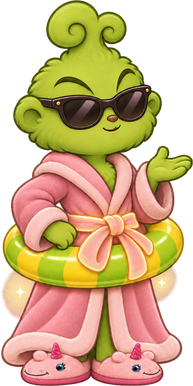
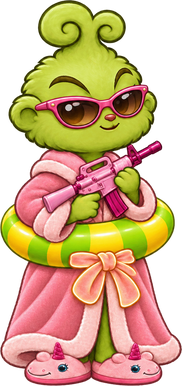
art: пляжные СР3, СР5, СР9 под новых питомцев
Перерисованы Codex image_gen по новым srN-5.png из master (b7982eb):
у Гринча розовая игрушка, у СР5 щит и знак, у СР9 красная шляпа и платье.
Одобрены владельцем 19.11.

diff --git a/CREDITS.md b/CREDITS.md
@@ -11,4 +11,4 @@
 | public/assets/pets/sr3-1.png … sr3-5.png — Гринч (СР3) в розовых тапочках по просьбе отдела: пять стадий нарезаны `tools/slice-pets.py` из нового листа assets/_raw/sr3-rost.png (прежний — sr3-rost-old.png) | правка прежнего листа встроенным `image_gen` по фото заказчика, 17.11.2026 | проект | для этой игры по заказу | — |
 | public/assets/toys/balloon.png, yoyo.png, plane.png, car.png, bubbles.png, drum.png, phone.png, bouncer.png, rocket.png, dumbbell.png — десять новых игрушек от РГ (шарик, йо-йо, самолётик, машинка, мыльные пузыри, барабан, телефон, попрыгунчик, ракета, гантелька); нарезаны по сетке 5 × 2 из листа assets/_raw/toys-2-v2.png, обрезаны по прозрачности, не больше 256 px | встроенный `image_gen` по образцу стиля assets/_raw/toys-ref.png (мост tools/agent-bridge, задание toys-2-20261117-retry), 17.11.2026 | проект | для этой игры по заказу | — |
 | public/assets/furniture/*.png — 25 вещей магазина РГ (столы, компьютеры, телефоны, кресла, угол, коврики, стены, окно); нарезаны `tools/slice-sheet.py` по сетке 3 × 3 из листов assets/_raw/furniture-1..3.png, обрезаны по прозрачности, не больше 256 px | встроенный `image_gen` по образцу стиля assets/_raw/toys-ref.png (мост tools/agent-bridge, задания furniture-1..3-20261118), 18.11.2026 | проект | для этой игры по заказу | — |
-| public/assets/pets/sr1..sr9-beach.png — шесть питомцев групп в отпуске (очки, круг, панамка, полотенце); обрезаны по прозрачности, высота как у srN-5.png | встроенный `image_gen` по одной картинке srN-5.png (мост tools/agent-bridge, задания beach-srN-20261118), 18.11.2026 | проект | для этой игры по заказу | — |
+| public/assets/pets/sr1..sr9-beach.png — шесть питомцев групп в отпуске (очки, круг, панамка, полотенце); обрезаны по прозрачности, высота как у srN-5.png | встроенный `image_gen` по одной картинке srN-5.png (мост tools/agent-bridge, задания beach-srN-20261118), 18.11.2026; sr3, sr5, sr9 перерисованы по новым srN-5.png (задания beach-sr3/sr5-20261119, beach-sr9-20261119b), 19.11.2026 | проект | для этой игры по заказу | — |
